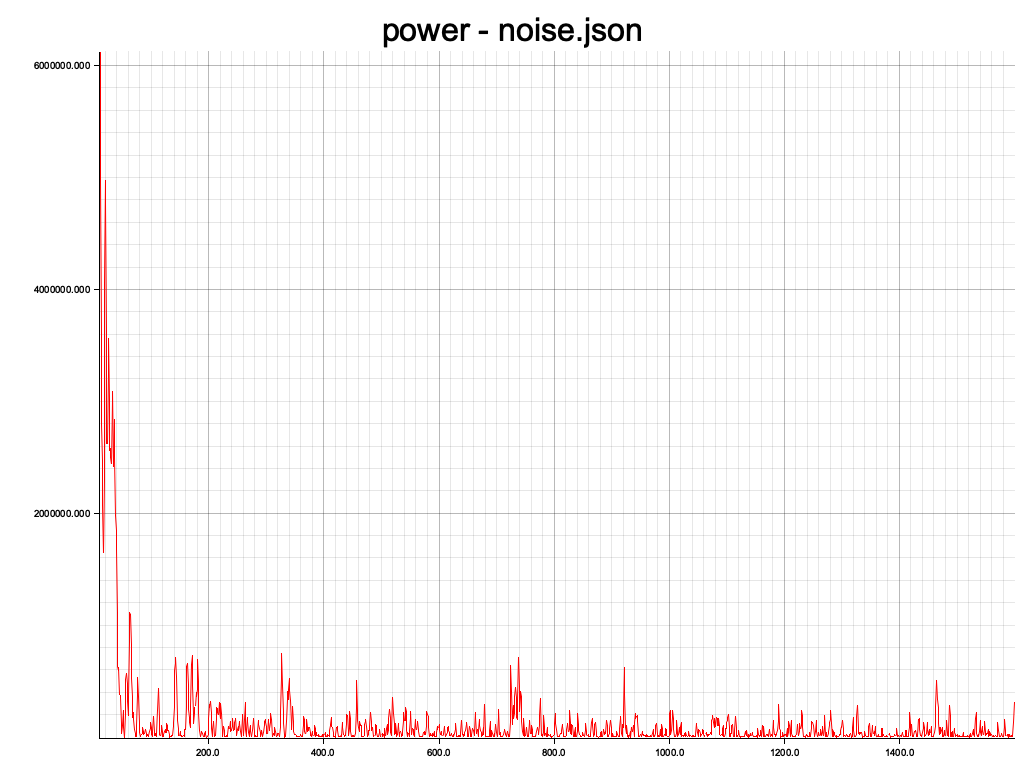
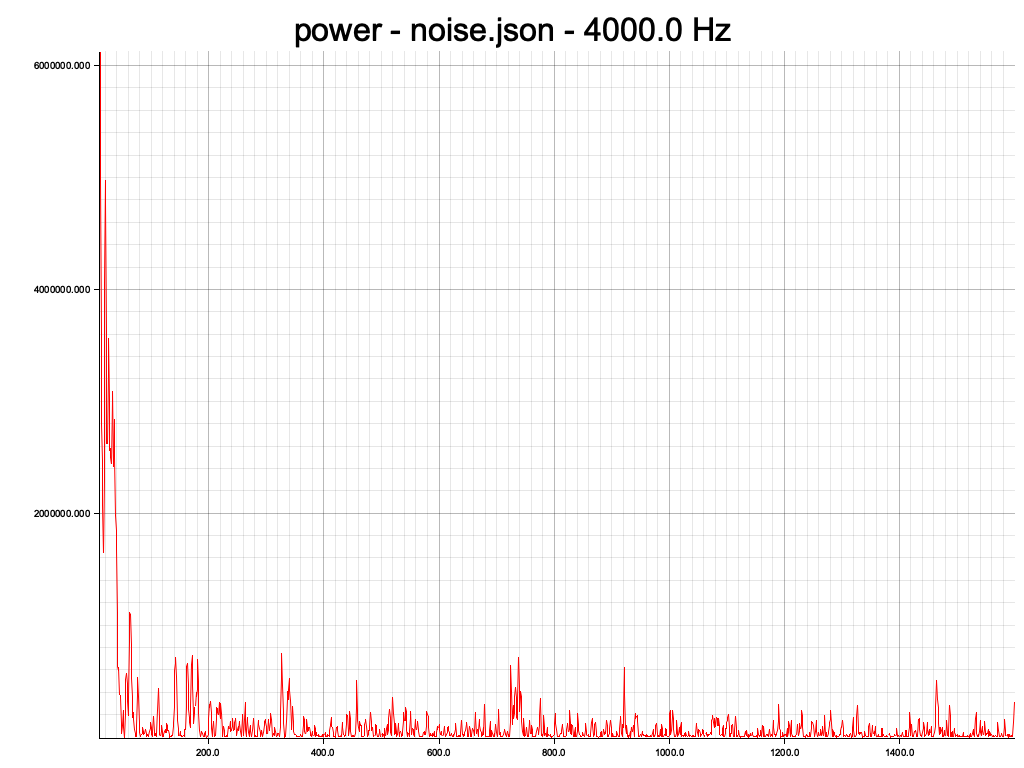
Made marco spectrum a bit better

Changed region(s): [[0.2812, 0.0, 0.7188, 0.0625]]

diff --git a/tuner-rs/src/detectors/marco_detector.rs b/tuner-rs/src/detectors/marco_detector.rs
@@ -61,20 +61,19 @@ impl FundamentalDetector for MarcoDetector {
 
         let (fft_space, scratch) = self.fft_space.workspace();
         fft.process_with_scratch(fft_space, scratch);
-        let absolute_values: Vec<f64> = self
-            .fft_space
-            .freq_domain(true)
-            .map(|(freq, _)| freq)
-            .collect();
+        let absolute_values: Vec<(usize, f64)> = self.spectrum();
         self.calc_top_fundamentals(&absolute_values)
     }
 
     fn spectrum(&self) -> Vec<(usize, f64)> {
+        let lower_limit = (MIN_FREQ * self.fft_space.len() as f64 / SAMPLE_RATE).round() as usize;
+        let upper_limit = (MAX_FREQ * self.fft_space.len() as f64 / SAMPLE_RATE).round() as usize;
         self.fft_space
-            .space()
-            .iter()
+            .freq_domain(true)
             .enumerate()
-            .map(|(idx, f)| (idx, f.re))
+            .skip(lower_limit)
+            .take(upper_limit - lower_limit)
+            .map(|(i, (amplitude, _))| (i, amplitude))
             .collect()
     }
 
@@ -91,7 +90,7 @@ impl MarcoDetector {
         }
     }
 
-    fn calc_top_fundamentals(&self, absolute_values: &[f64]) -> Result<Partial> {
+    fn calc_top_fundamentals(&self, absolute_values: &[(usize, f64)]) -> Result<Partial> {
         let highest_intensity_partials =
             self.scaled_and_ordered_highest_intensity_partials(absolute_values);
         let mut harmonic_notes = Self::decompose_into_notes(&highest_intensity_partials);
@@ -142,14 +141,14 @@ impl MarcoDetector {
 
     fn scaled_and_ordered_highest_intensity_partials(
         &self,
-        absolute_values: &[f64],
+        absolute_values: &[(usize, f64)],
     ) -> Vec<Partial> {
         let mut highest_intensity_partials: Vec<Partial> = vec![Partial::default(); 30];
-        absolute_values.iter().enumerate().for_each(|a| {
+        absolute_values.iter().for_each(|a| {
             Self::add_partial_if_high_intensity_and_within_freq_range(
                 Partial {
                     freq: a.0 as f64,
-                    intensity: *a.1,
+                    intensity: a.1,
                 },
                 &mut highest_intensity_partials,
             );

diff --git a/tuner-rs/src/utils.rs b/tuner-rs/src/utils.rs
@@ -44,12 +44,16 @@ pub mod test_utils {
         spectrum: &[(usize, f64)],
         detector_name: &str,
         samples_file: &str,
+        expected_freq: f64,
     ) -> anyhow::Result<()> {
-        let plot_title = format!("{} - {}", detector_name, samples_file);
+        let plot_title = format!(
+            "{} - {} - {:?} Hz",
+            detector_name, samples_file, expected_freq
+        );
         let output_file = format!(
             "{}/test_data/results/{}.png",
             env!("CARGO_MANIFEST_DIR"),
-            plot_title
+            format!("{} - {}", detector_name, samples_file)
         );
         let (x_vals, y_vals): (Vec<f64>, Vec<f64>) =
             spectrum.iter().map(|i| (i.0 as f64, i.1)).unzip();
@@ -94,7 +98,7 @@ pub mod test_utils {
         let partial = detector.detect_fundamental(&signal)?;
         let spectrum = detector.spectrum();
         let detector_name = detector.name();
-        plot(&spectrum, detector_name, samples_file)?;
+        plot(&spectrum, detector_name, samples_file, expected_freq)?;
         assert!(
             partial.freq.approx_eq(expected_freq, (0.02, 2)),
             "Expected freq: {}, Actual freq: {}",

diff --git a/tuner-rs/src/detectors/autocorrelation.rs b/tuner-rs/src/detectors/autocorrelation.rs
@@ -47,10 +47,17 @@ impl FundamentalDetector for AutocorrelationDetector {
     }
 
     fn spectrum(&self) -> Vec<(usize, f64)> {
+        // Frequency = SAMPLE_RATE / quefrency
+        // With this in mind we can ignore the extremes of the power cepstrum
+        // https://en.wikipedia.org/wiki/Cepstrum
+        let lower_limit = (SAMPLE_RATE / MAX_FREQ).round() as usize;
+        let upper_limit = (SAMPLE_RATE / MIN_FREQ).round() as usize;
         self.fft_space
             .space()
             .iter()
             .enumerate()
+            .skip(lower_limit)
+            .take(upper_limit - lower_limit)
             .map(|(idx, f)| (idx, f.re))
             .collect()
     }
